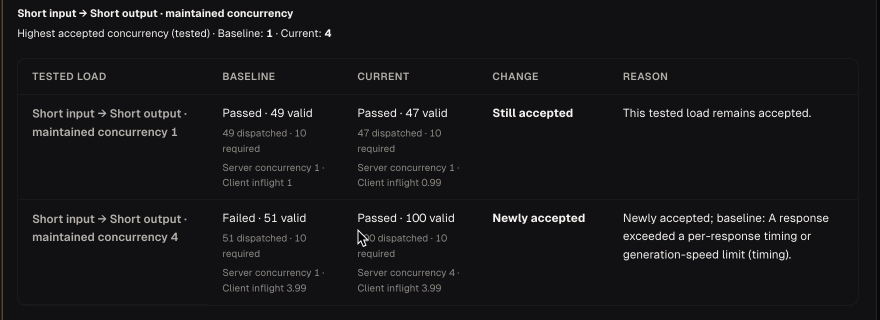
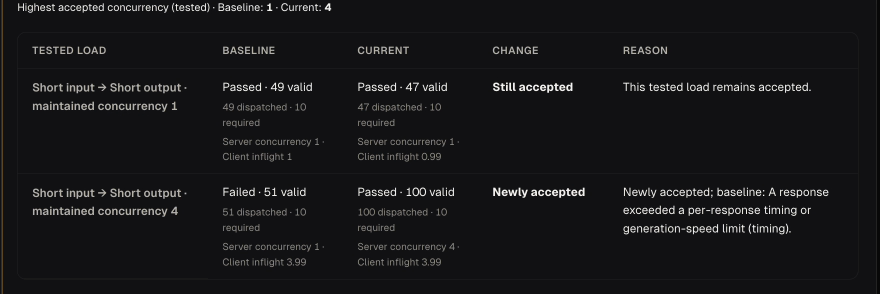
Use a cursor-free frame for the README comparison

diff --git a/docs/samples/README.md b/docs/samples/README.md
@@ -50,9 +50,9 @@ records concurrency one still accepted and concurrency four newly accepted.
 
 ![Recorded Giraffe comparison showing concurrency four newly accepted](../assets/readme/order-extraction-comparison.png)
 
-The README uses this tight crop of the tested-load comparison, taken at 28.0
-seconds in the original comparison recording. It shows both load levels and
-their before/after outcomes at native resolution. The four-request row changes
+The README uses this tight crop of the tested-load comparison, taken at 32.0
+seconds in the original comparison recording, after the cursor moved below the
+table. It shows both load levels and their before/after outcomes at native resolution. The four-request row changes
 from `Failed · 51 valid` to `Passed · 100 valid`; the complete timing evidence is
 in the reports and table above. The full run headers follow for reference.
 
